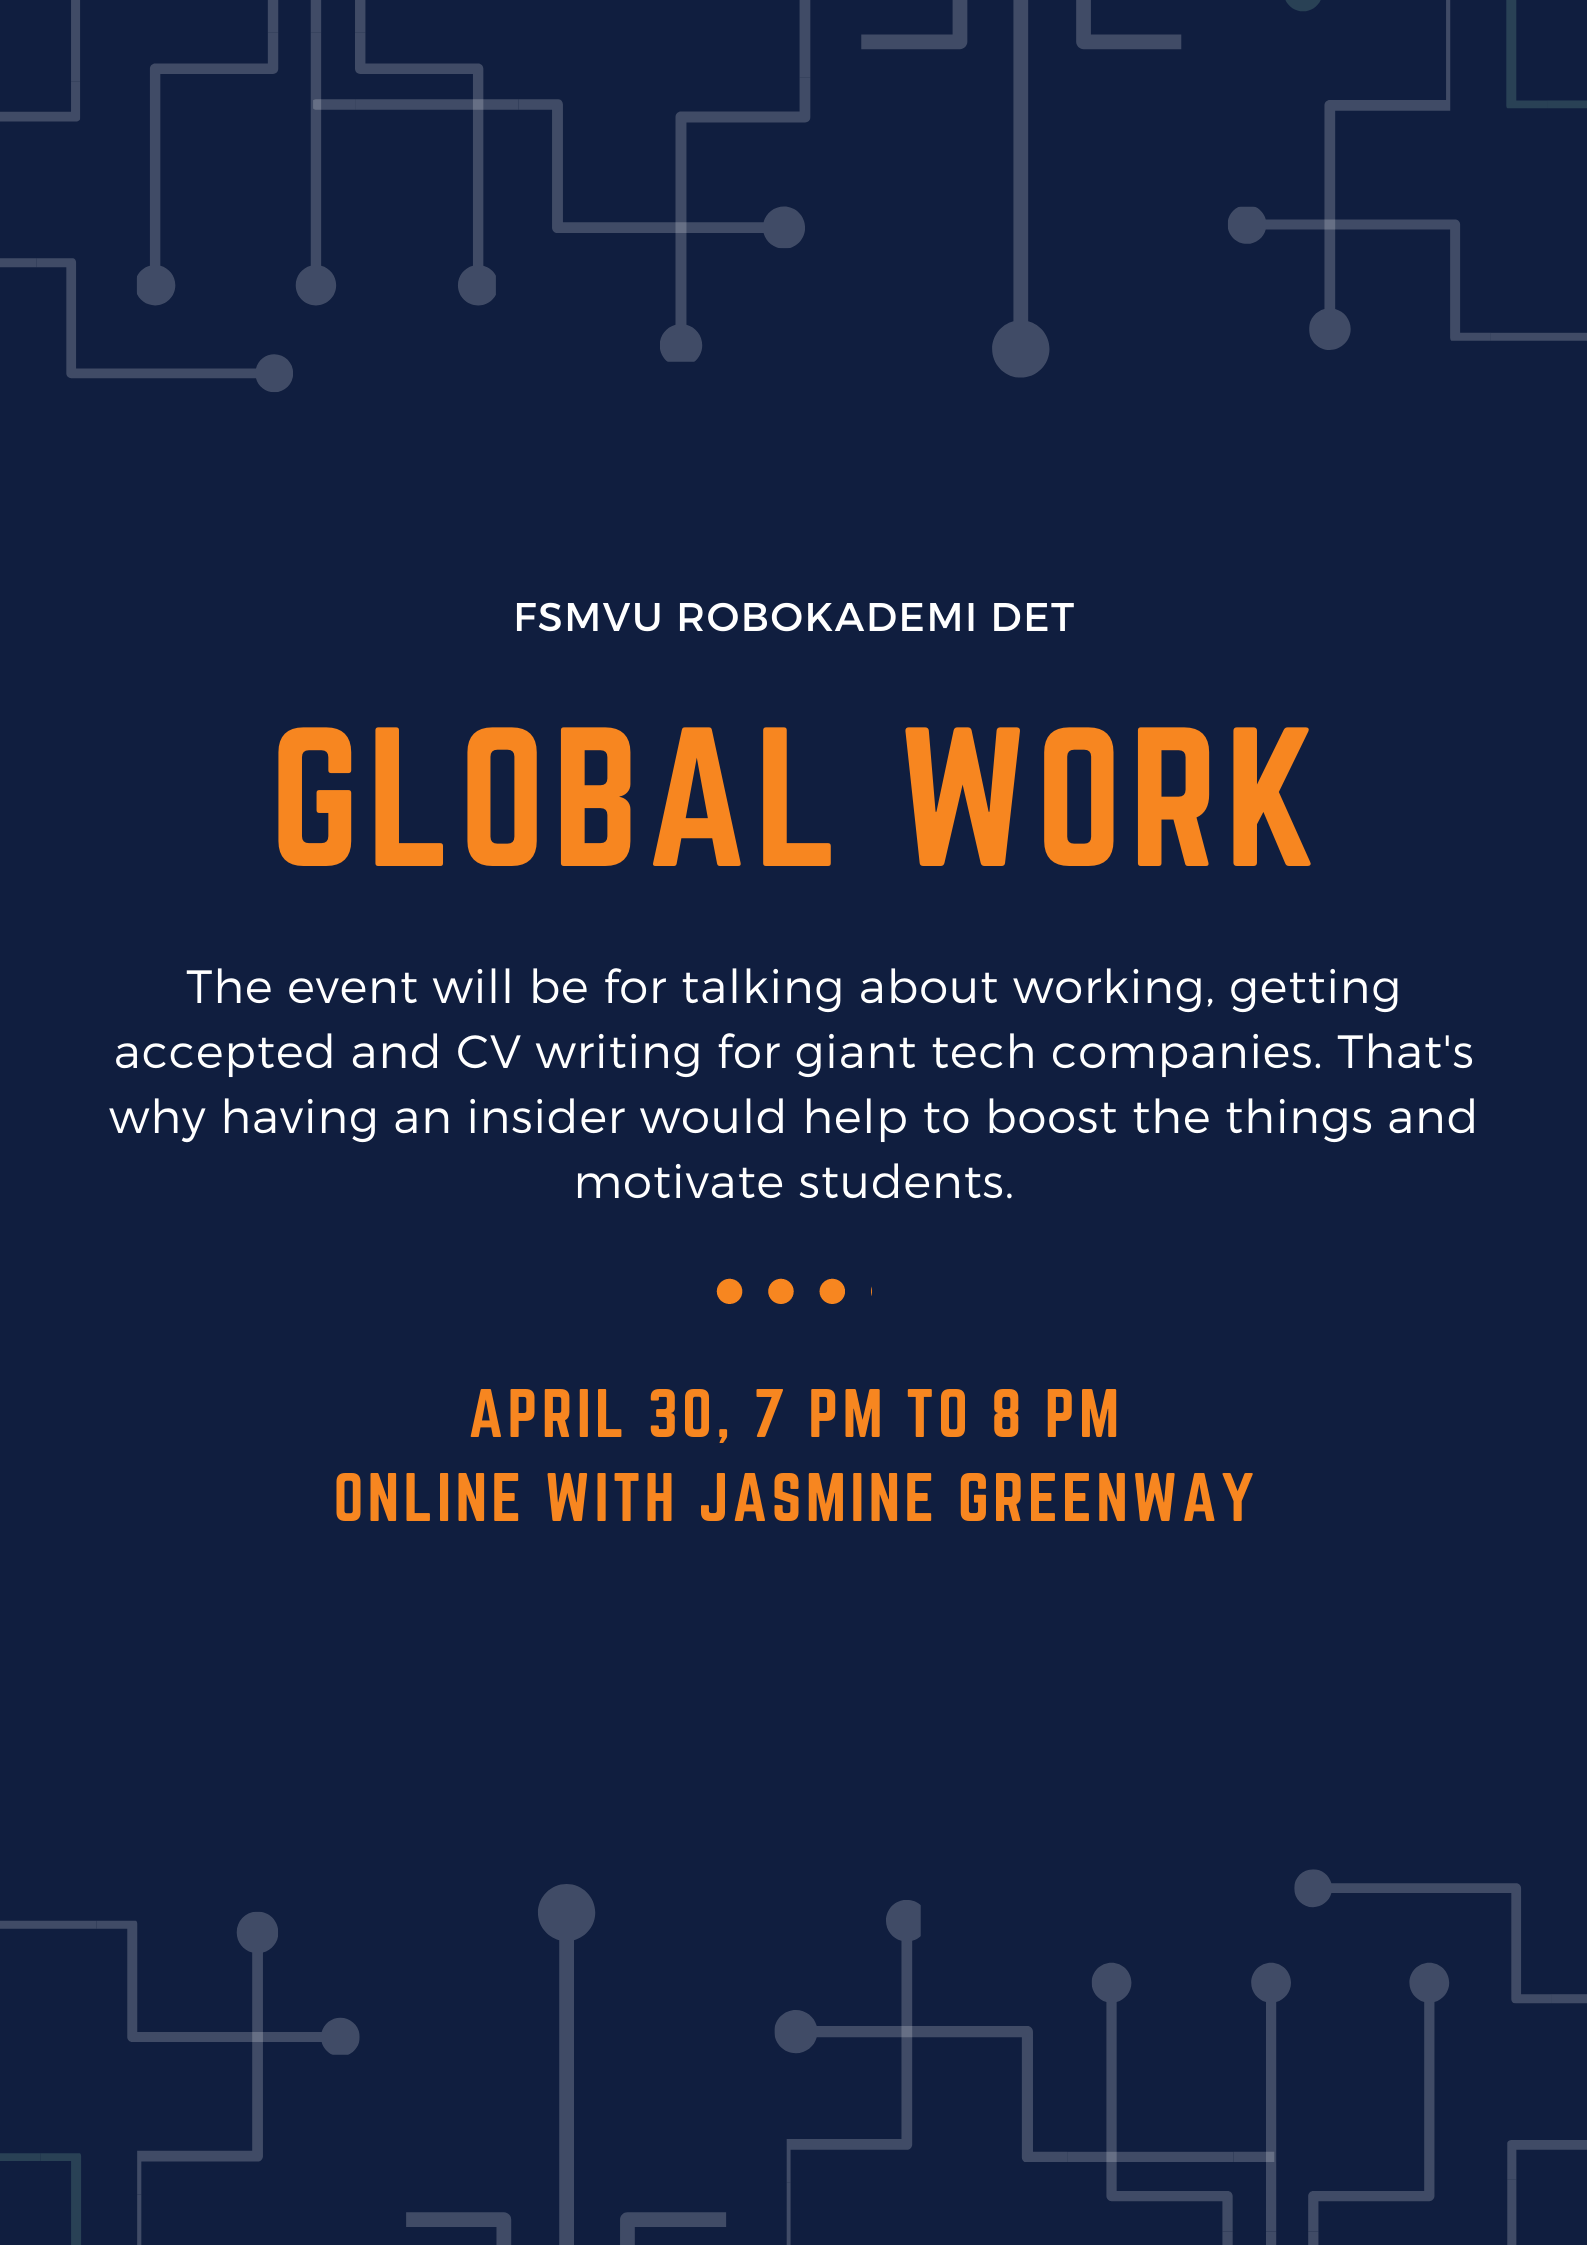
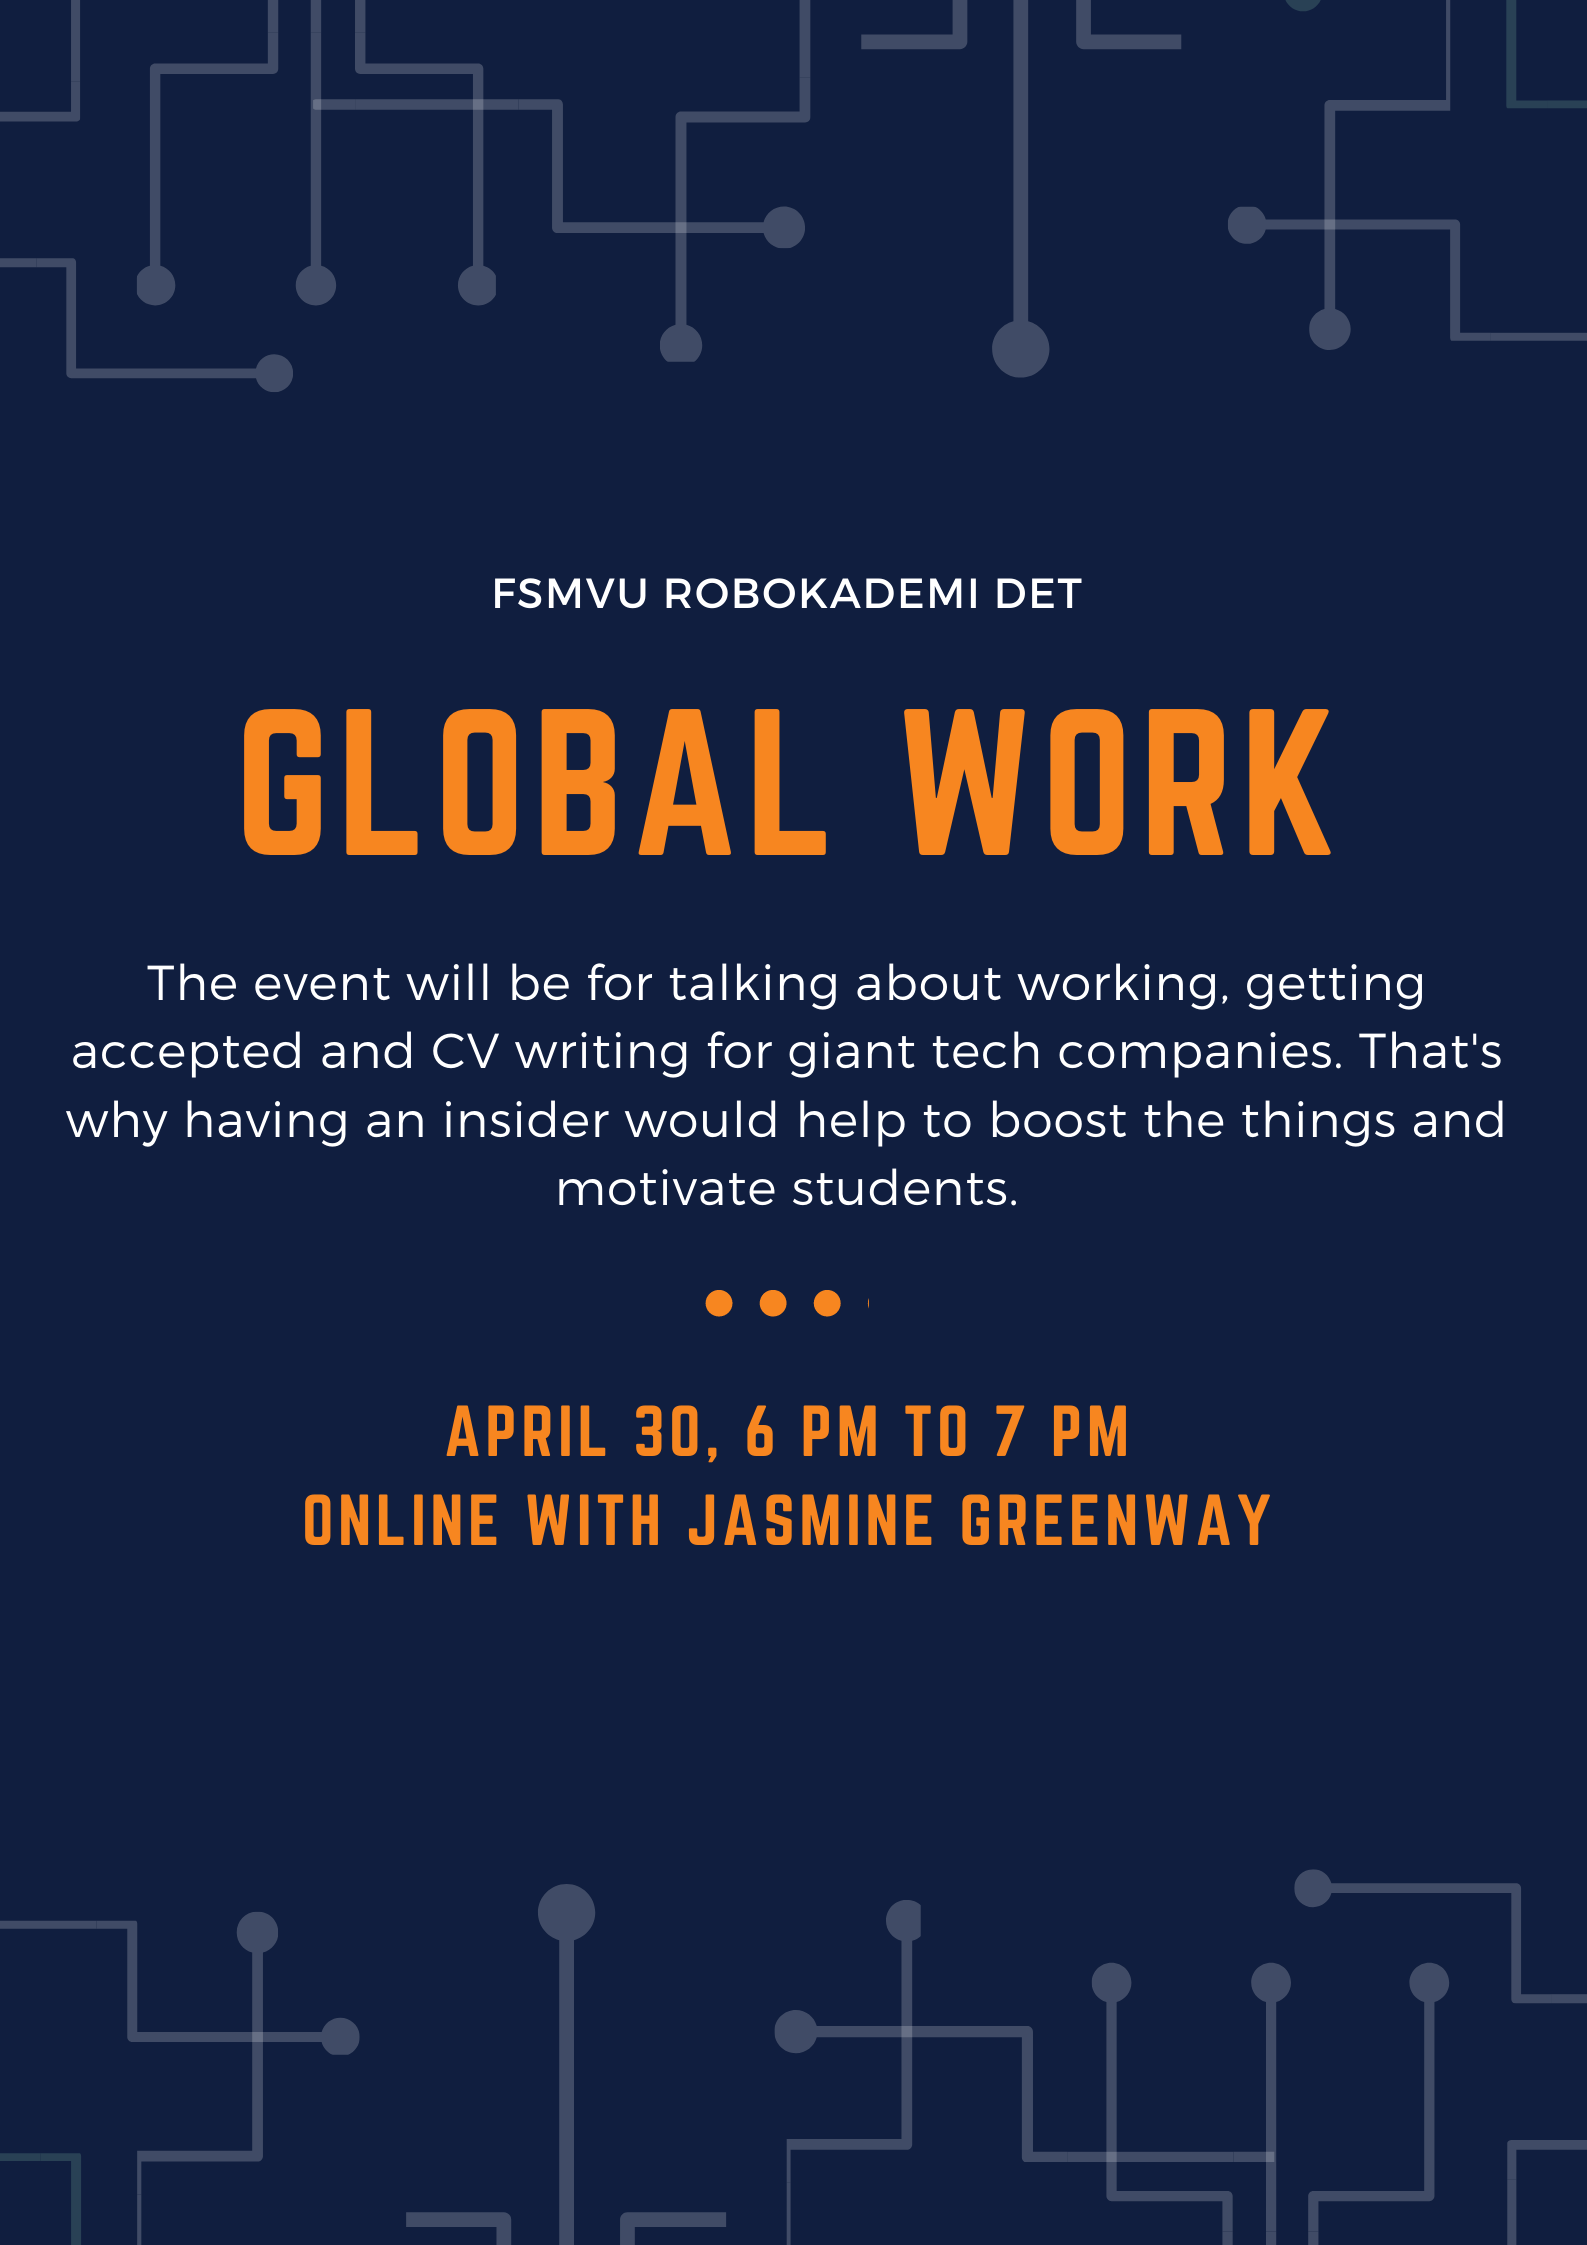
add link to live

diff --git a/index.html b/index.html
@@ -28,7 +28,7 @@
             </ul>
           </div>
 
-          <a id="workshopLink" disabled=true class="website-button">
+          <a id="workshopLink" disabled=true class="website-button" href="https://www.youtube.com/watch?v=RaZ-Tsc0ooY">
             watching link: Soon
           </a>
           <div class="social-medias">

diff --git a/script.js b/script.js
@@ -4,7 +4,7 @@ const hour = minute * 60;
 const day = hour * 24;
 let showTime;
 
-let countDown = new Date(2021, 03, 30, 19).getTime(),
+let countDown = new Date(2021, 03, 30, 18).getTime(),
   x = setInterval(function () {
 
     let now = new Date().getTime(),
